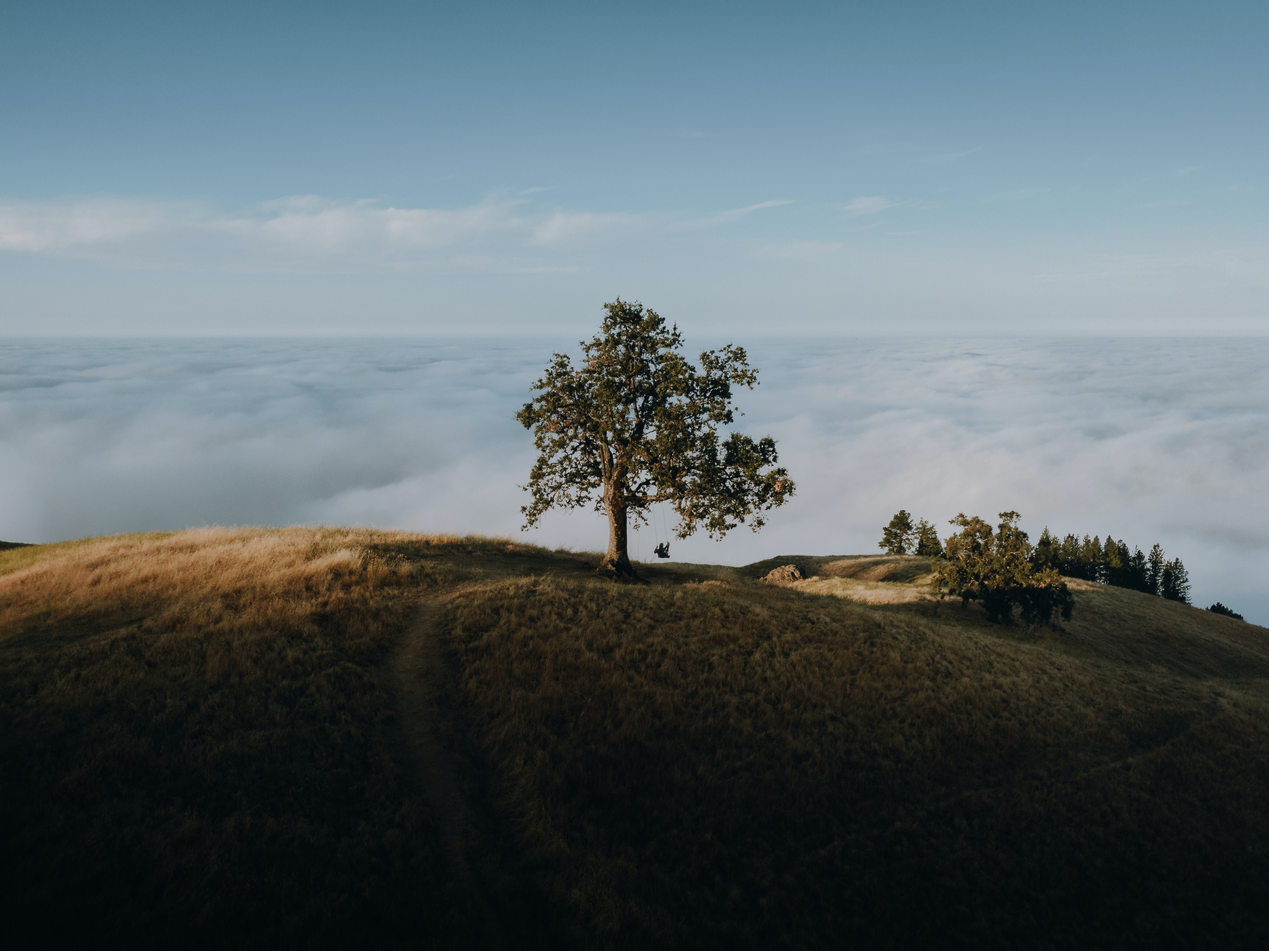
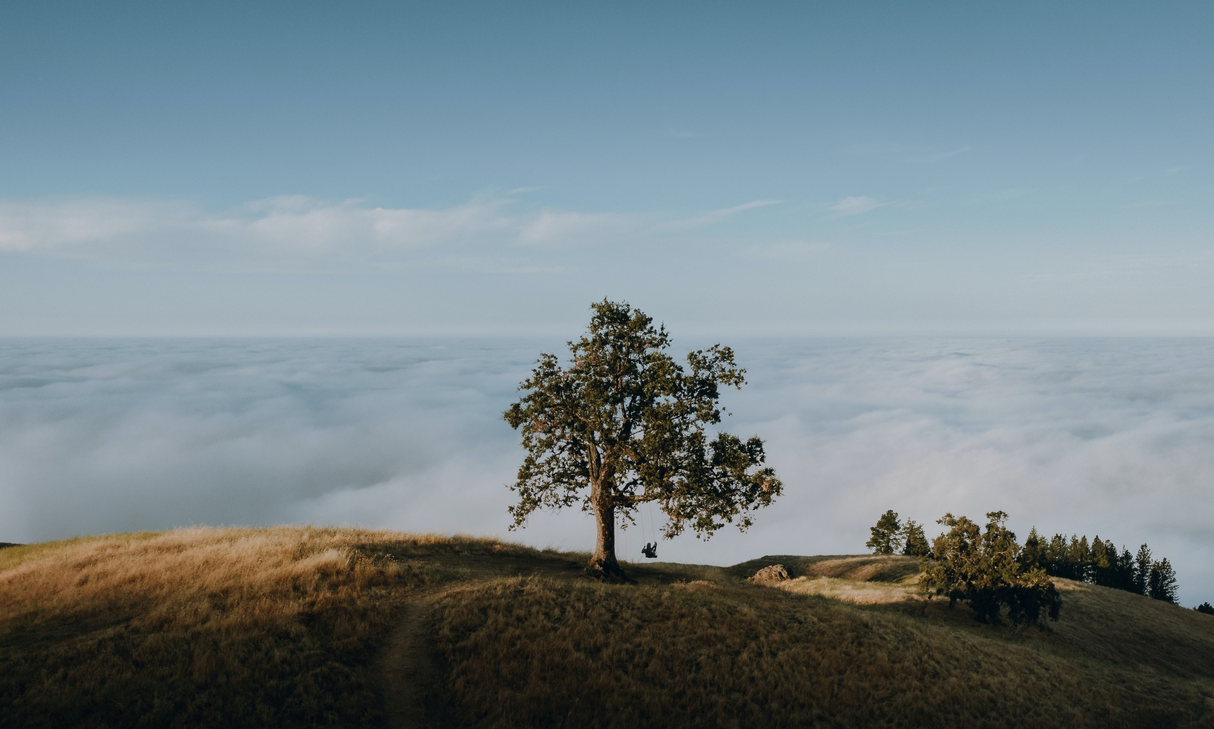
'добавил фон'

diff --git a/css/style.css b/css/style.css
@@ -75,3 +75,9 @@ li {
   .header_link:hover, .header_link:focus, .header_link:active{
       opacity: .75;
   }
+  .slide {
+      height: 100vh;
+      background: no-repeat center url(../img/10.jpg);
+      background-size: cover;
+      background-position: 0 -110px;
+  }

diff --git a/index.html b/index.html
@@ -34,6 +34,9 @@
         </div>
     </header>
     <main class="main">
+        <section class="slide">
+            
+        </section>
         <section class="istanbul">
 
         </section>
